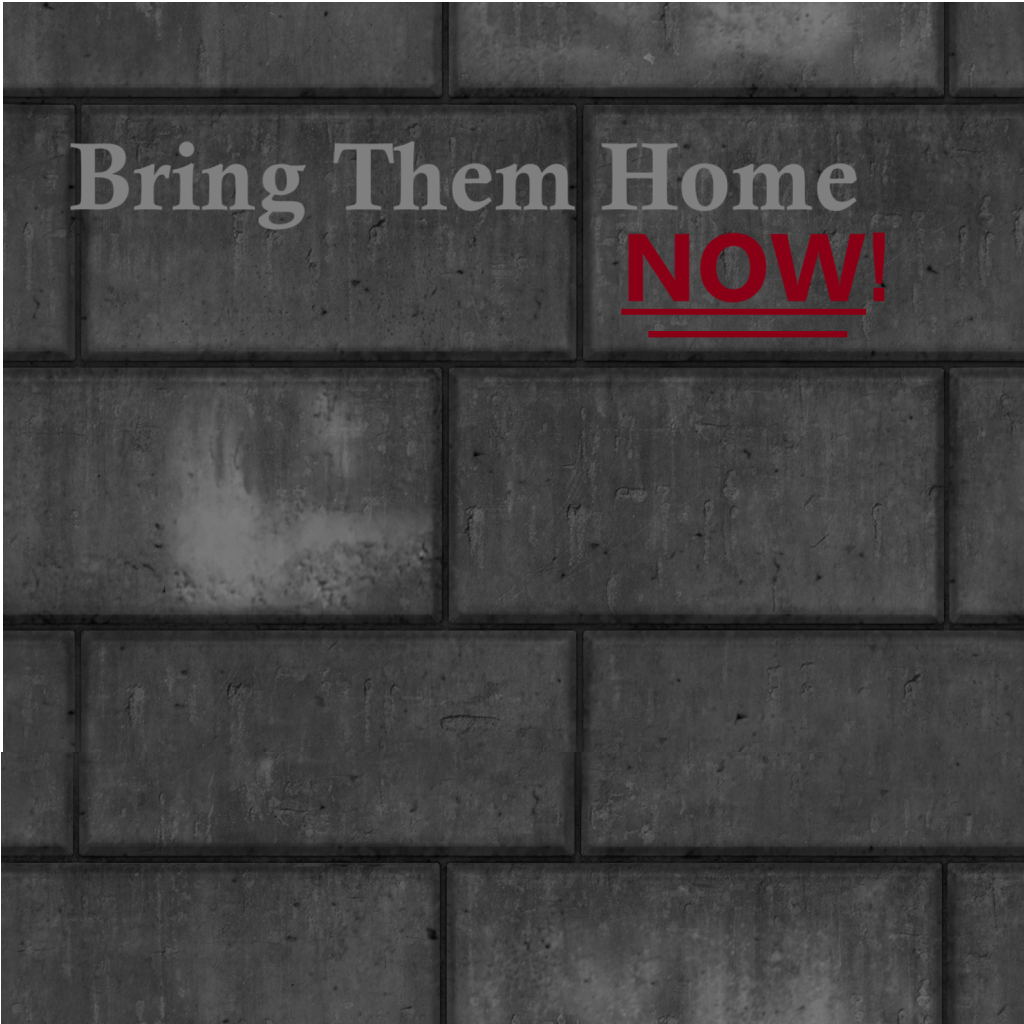
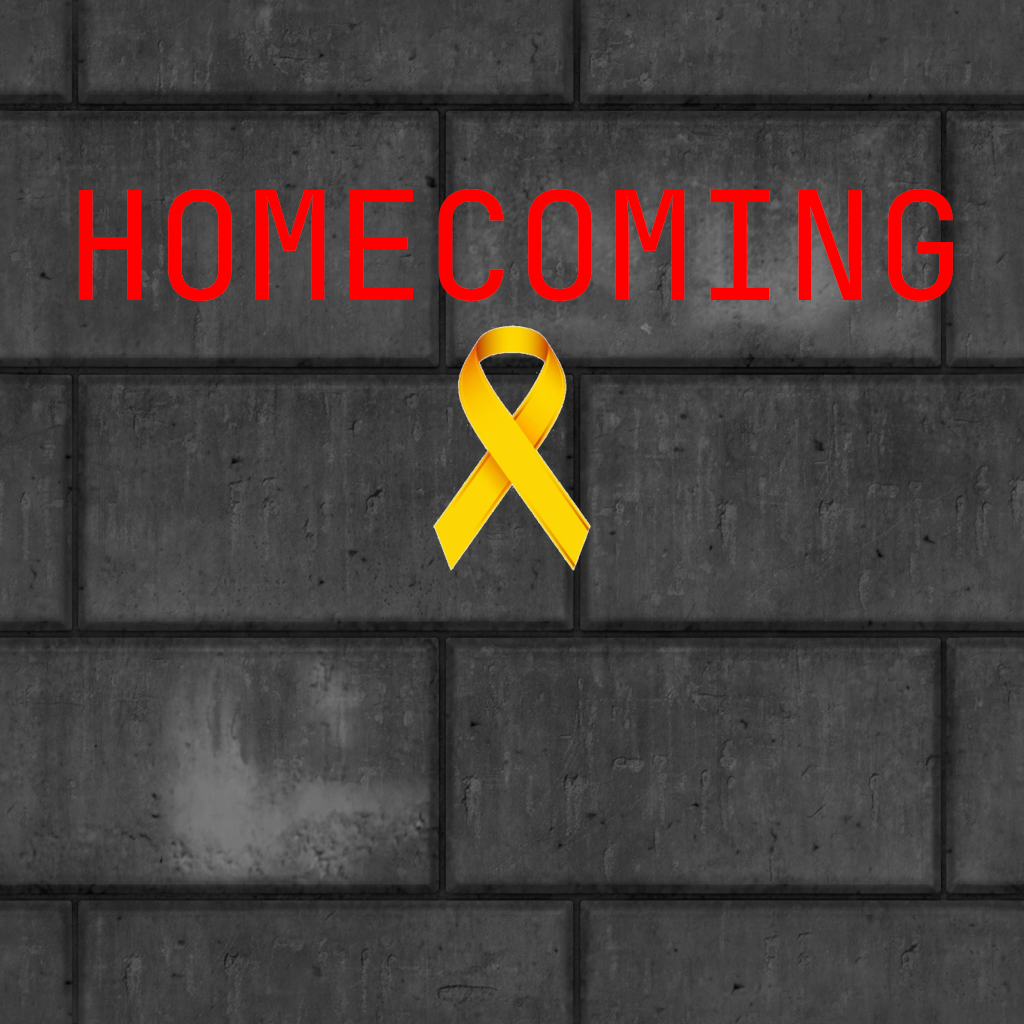
added resources and changed the menu scree

diff --git a/src/main.py b/src/main.py
@@ -170,10 +170,10 @@ class Game:
                     False,
                     (255, 255, 255)
                 ),
-                (const.HALF_WIDTH - 500, const.HEIGHT / 2 + const.HEIGHT / 3 * idx)
+                (const.HALF_WIDTH - 500, const.HEIGHT / 1.5 + const.HEIGHT / 8 * idx)
             )
-        pg.display.flip()
         while True:
+            pg.display.flip()
             key = pg.key.get_pressed()
             if key[pg.K_SPACE]:
                 break
@@ -217,9 +217,9 @@ class Game:
                 ),
                 (const.WIDTH / 10, const.HEIGHT / 10 + const.HEIGHT / 8 * (i + 1))
             )
-        pg.display.flip()
         waiting = True
         while waiting:
+            pg.display.flip()
             for event in pg.event.get():
                 if event.type == pg.KEYDOWN:
                     return None
